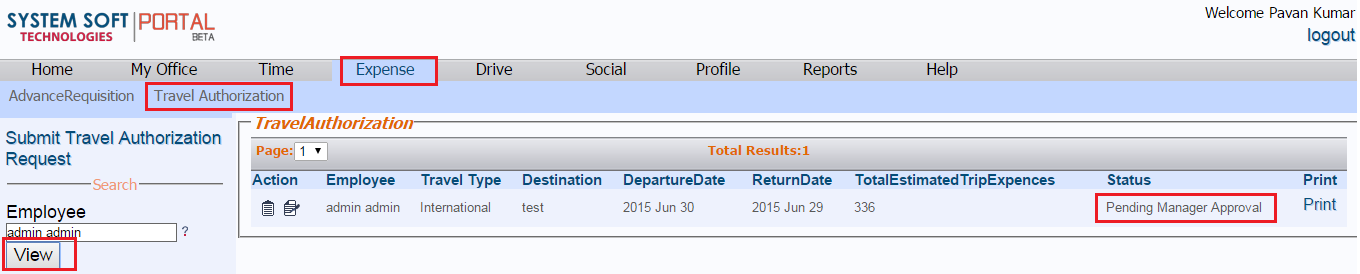
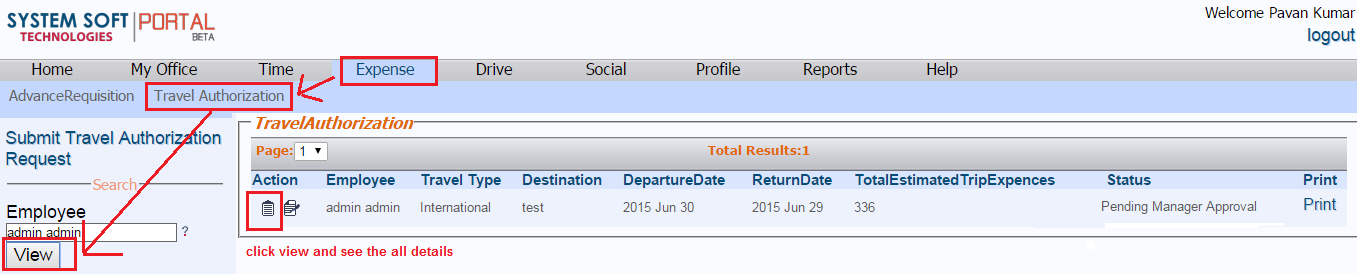
documentation for travel authorization
git-svn-id: http://tools.sstech.us/svn/office/trunk@6133 04aae24c-3eb2-d842-8c26-b4285eb26770

diff --git a/office-master/office-doc/src/site/markdown/office/expense/travelauthorization.md b/office-master/office-doc/src/site/markdown/office/expense/travelauthorization.md
@@ -3,9 +3,9 @@ How to submit Travel Authorization Request
  - [Login to Portal](../../office/forgot-password.html "Login")
  - Navigate to Expense --> Travel Authorization--> Submit Travel Authorization
  - Employee submits the travel authorization request after entering all the relevant details
- - Reports_To Manager will review and approve/reject the request,Approved request will be send to CEO for final approval.
+ - Reports_To Manager will review and approve/reject the request. Approved request will be send to CEO for final approval.
  - CEO will review the approved request and approve/reject the request 
- - After approval process is complete, an email indicating final decision is generated and sent to user.
+ - After approval process is complete, the email indicating final decision is generated and sent to user.
  - [Travel Authorization Process](../../office/expense/travelauthorizationprocess.html "Login")
 
 Submitting Travel Authorization
@@ -13,17 +13,10 @@ Submitting Travel Authorization
 ![alt text](../../images/expense/travel-authorization.png "Travel Authorization")
 ![alt text](../../images/expense/submit-travelauthorization.png "Travel Authorization")
 
-Print For Travel Authorization
+How to Print For Travel Authorization
 ==========
 - Navigate to Expense --> Travel Authorization --> Print
 
 ![alt text](../../images/expense/print-travelauthorization.png "Check Requisition")
 ![alt text](../../images/expense/travelauthorization-print-form.png "Check Requisition")
 
-Travel Authorization Process for Reports_To Manager
-----
-![alt text](../../images/expense/travel-reportsto-manager.png "Travel Authorization")
-
-Travel Authorization Process for CEO Process
-----
-![alt text](../../images/expense/travel-ceo-process.png "Travel Authorization")

diff --git a/office-master/office-doc/src/site/markdown/office/expense/travelauthorizationprocess.md b/office-master/office-doc/src/site/markdown/office/expense/travelauthorizationprocess.md
@@ -1,21 +1,25 @@
-Travel Authorization process
+Travel Authorization Work Flow process
 ==========
 ![alt text](../../images/expense/travel-authorization-process.png "Travel Authorization")
 
-Travel Authorization Process for Reports_To Manager
+How To View Travel Authorization Process for Reports_To Manager
 ----
- - Navigate to Expense --> Travel Authorization--> view
+ - Navigate to Expense --> Travel Authorization--> Search --> view
 ![alt text](../../images/expense/travel-reportsto-manager.png "Travel Authorization")
+![alt text](../../images/expense/view-travel-authorization.png "Travel Authorization")
+
 Email For Reports_To Manager
 ----
 ![alt text](../../images/expense/Email_reportsto.png "Travel Authorization")
 
-Travel Authorization Process for Reports_To Manager Task
+How To Approve Travel Authorization Process for Reports_To Manager Task
 ----
+ - Navigate to Home --> MY Tasks --> view
+
 ![alt text](../../images/expense/pending-manager-approval-task.png "Travel Authorization")
 Travel Authorization Process for CEO Process
 ----
- - Navigate to Expense --> Travel Authorization--> view
+- Navigate to Expense --> Travel Authorization--> Search --> view
 
 ![alt text](../../images/expense/ceo-approval-process.png "Travel Authorization")
 
@@ -25,4 +29,5 @@ Email For CEO
 
 Travel Authorization Process for CEO Process Task
 ----
+ - Navigate to Home --> MY Tasks --> view
 ![alt text](../../images/expense/ceo-approval-task.png "Travel Authorization")
